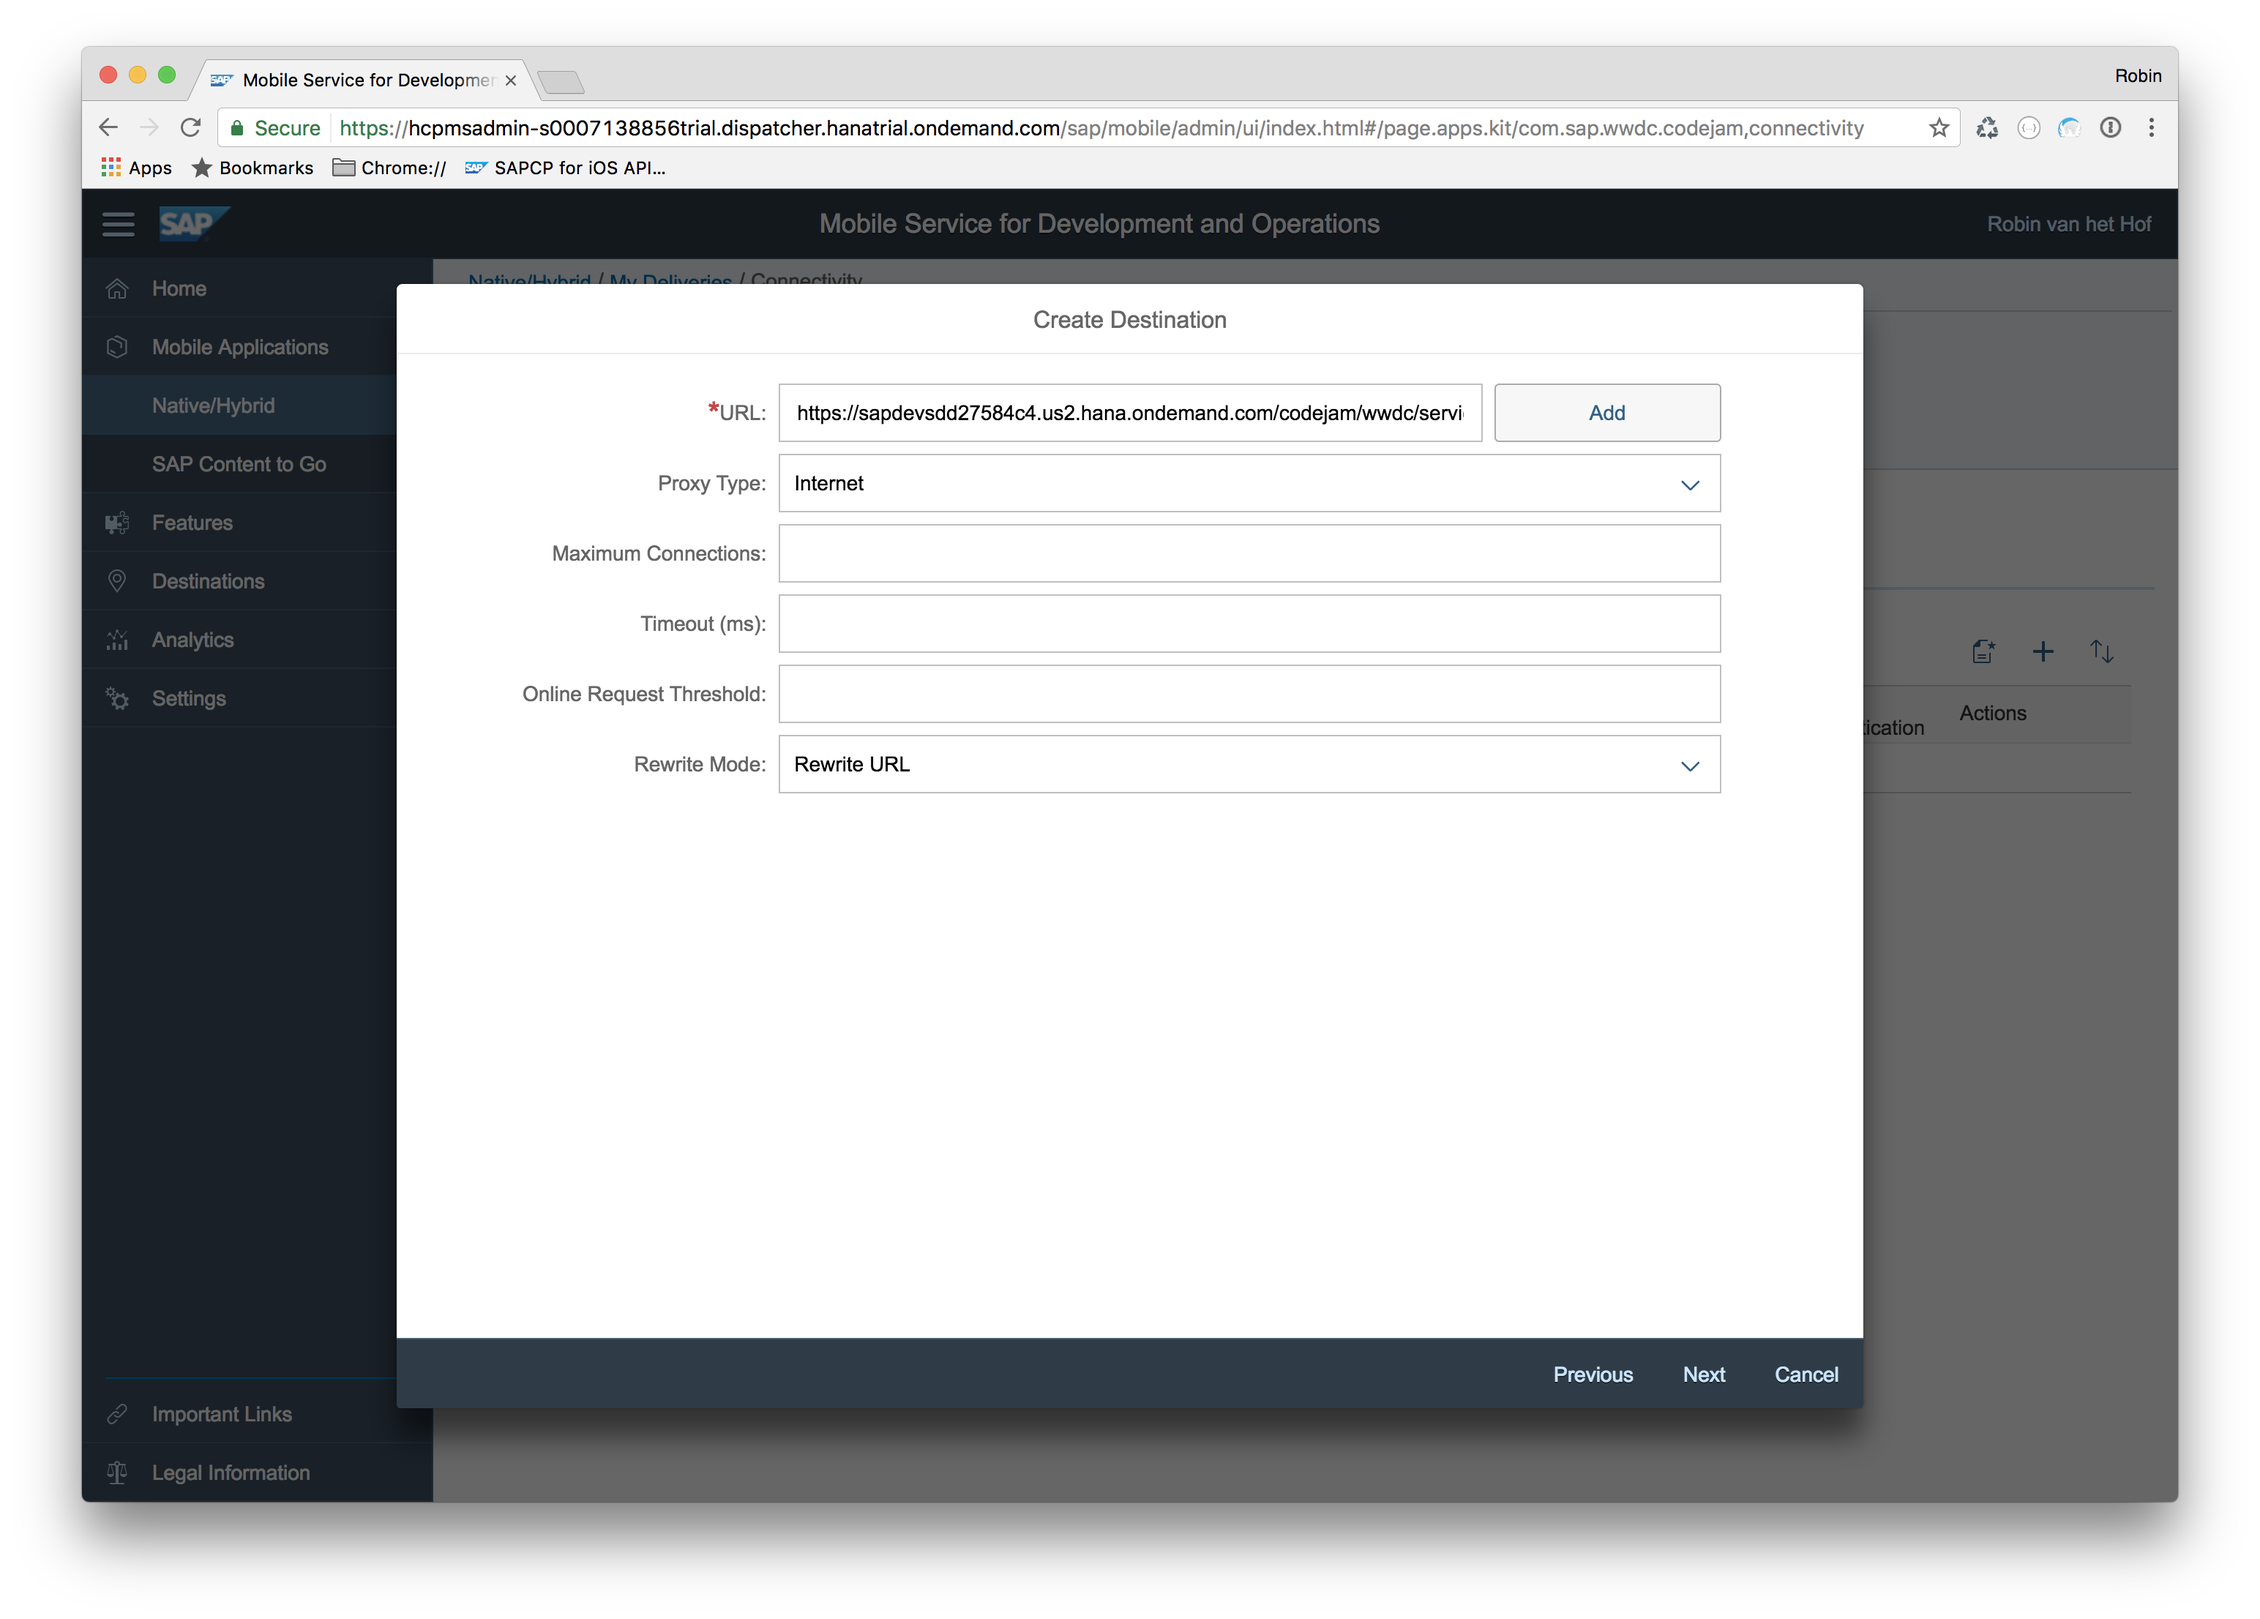
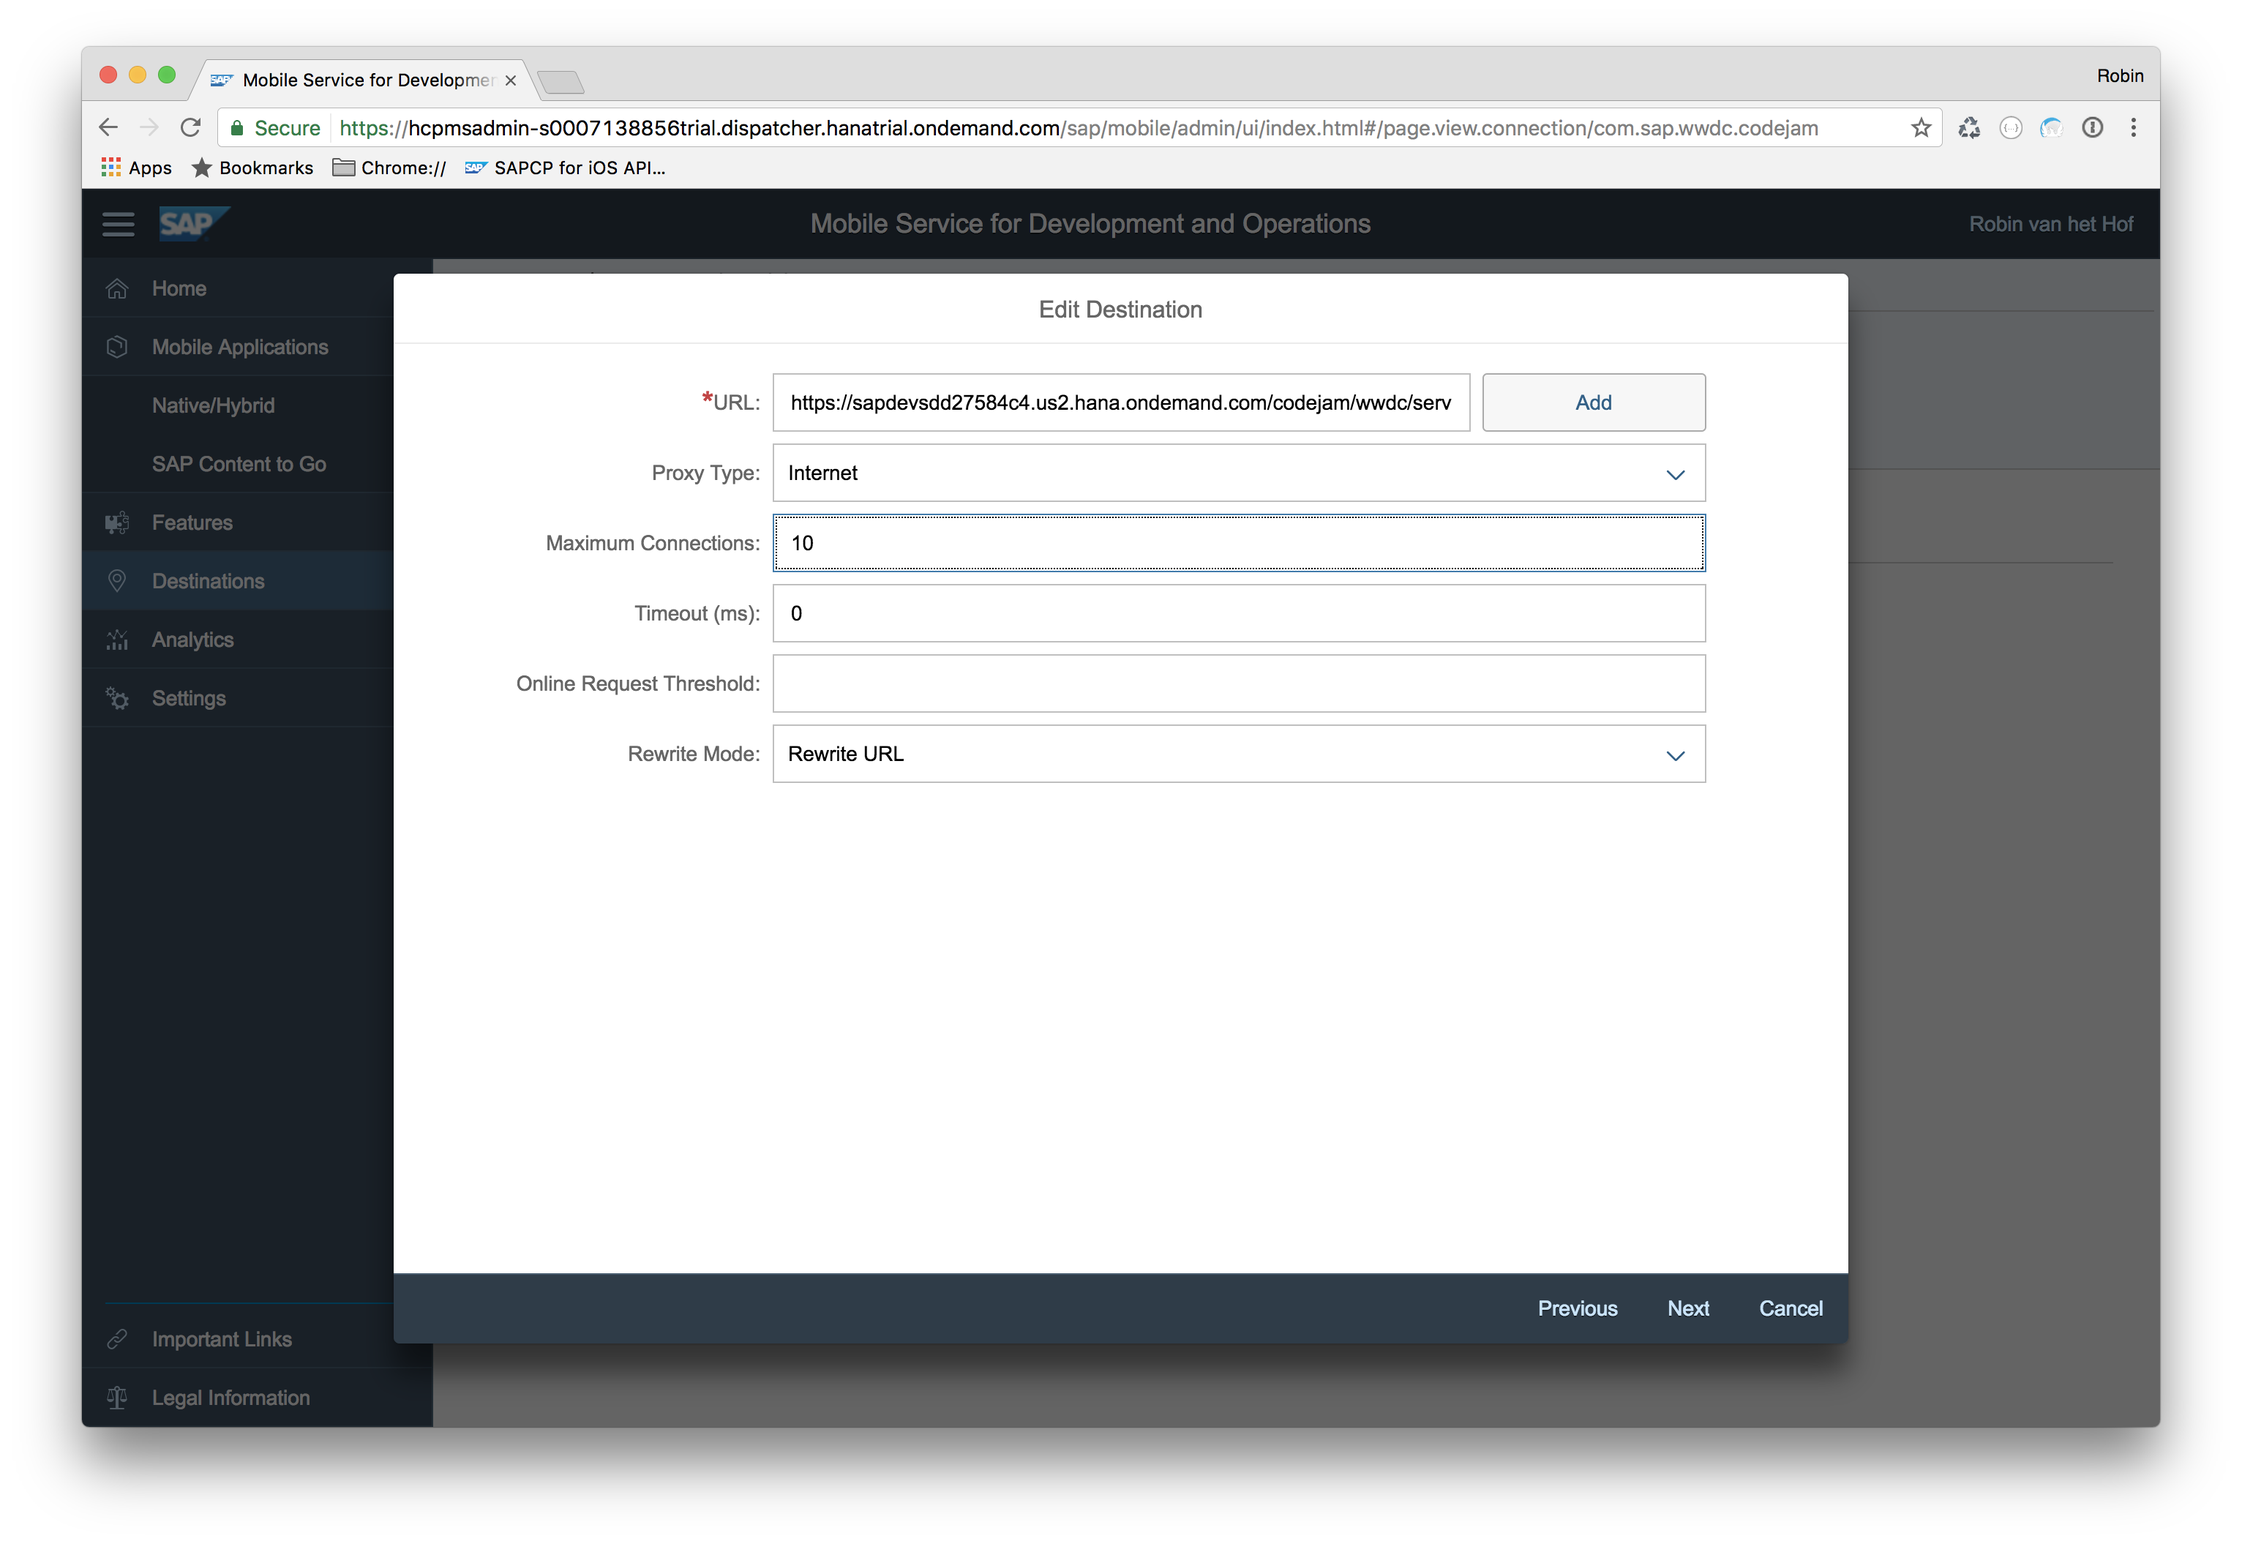
Minor changes to comply with SDK SP02
Minor changes to comply with SDK SP02

diff --git a/tutorials/2017/05/fiori-ios-scpms-create-demo-app/fiori-ios-scpms-create-demo-app.md b/tutorials/2017/05/fiori-ios-scpms-create-demo-app/fiori-ios-scpms-create-demo-app.md
@@ -83,6 +83,7 @@ Click **Next**. In the next page of the wizard, enter the following connection d
 |----|----|
 | URL | `https://sapdevsdd27584c4.us2.hana.ondemand.com/codejam/wwdc/services/DeliveryService.xsodata` |
 | Proxy Type | `Internet` |
+| Maximum Connections | `10` |
 | Rewrite Mode | `Rewrite URL` |
 
 ![Connectivity Page](fiori-ios-scpms-create-demo-app-38.png)
@@ -205,7 +206,9 @@ In the **Optional Features** page, you have the option to generate a **Master-De
 
 ![Optional Features](fiori-ios-scpms-create-demo-app-12.png)
 
-Make sure all checkboxes are selected and click **Finish** to complete the wizard.
+Make sure the checkboxes **Generate Master-Detail Application**, **Enable Logging** and **Enable Log Upload** are selected and click **Finish** to complete the wizard.
+
+> Most likely the checkbox for **Remote Notifications** is disabled. This happens because no APNS endpoint is configured for the application definition in SAP Cloud Platform mobile service for development and operations. Once configured with a valid certificate, this option becomes available.
 
 
 [DONE]
@@ -242,9 +245,7 @@ Folder `Proxy Classes` contains the OData proxy classes generated from the OData
 
 Click the **Run** button to build and run the generated application.
 
-![App first loaded](fiori-ios-scpms-create-demo-app-15.png)
-
-Dismiss the Push Notifications alert, and the app starts with an overview of the available **Collections** of the OData service:
+The app starts with an overview of the available **Collections** of the OData service:
 
 ![Collections screen](fiori-ios-scpms-create-demo-app-17.png)
 
@@ -442,6 +443,8 @@ This adds a reference to the `AppDelegate` class, a reference to the SDK's loggi
 Switch to the **Storyboard** and select the **Tracking Info Table View**. In the **Identity inspector**, set the **Custom Class** to `TrackingInfoViewController`:
 
 ![Link Table View Controller to subclass](fiori-ios-scpms-create-demo-app-25.png)
+
+> To avoid a "*prototype table cells must have reuse identifiers*" warning, you can provide an identifier for the table view's prototype cell, or alternatively, set the **Prototype Cells** value to `0`.
 
 [DONE]
 [ACCORDION-END]
